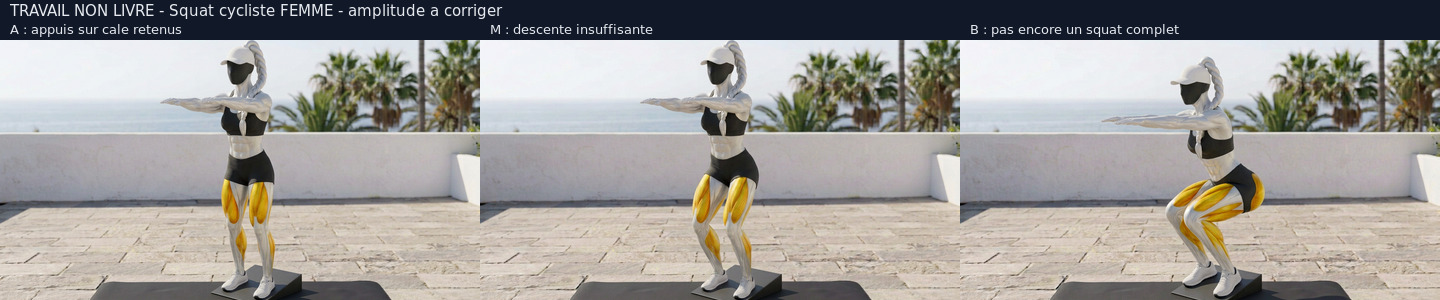
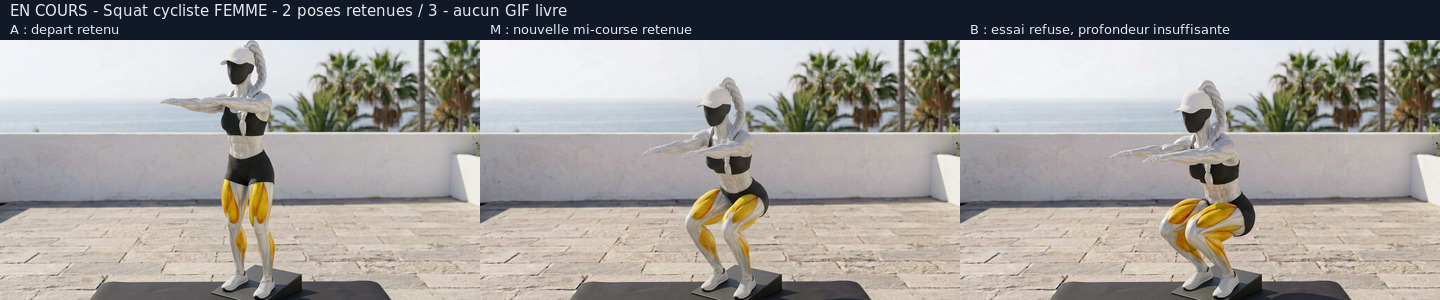
work(animations): retient mi-course cycliste F, B encore non validee
A->M RMSE 0.0944469, controles 1:1 et appuis. 8 appels, aucun nouveau GIF, compteur 74/614. Sources: https://www.youtube.com/watch?v=Hvop-AYzB-I https://simplifaster.com/articles/squat-progression-that-works/ https://www.womenshealthmag.com/uk/fitness/strength-training/a70232060/cyclist-squats-for-stronger-quads/

diff --git a/yanis-fitness-evolution/animations/SUIVI.md b/yanis-fitness-evolution/animations/SUIVI.md
@@ -1699,3 +1699,71 @@ Priorité : corriger M/B du squat cycliste F, en repartant de A retenue et d'une
 validée de hauteur ; conserver la cale, l'orientation et les appuis. Pas de génération depuis
 les essais non conformes. Puis reprendre leg press H/F et back squat F. B-04 attend.
 B-03 reste incomplet. Aucun assemblage final de lot, aucune intégration applicative.
+
+
+## Reprise suivante — 9 octobre 2026 (après `1f099e7`)
+
+**Avancement réel : squat cycliste FEMME 2 poses retenues / 3 (A et nouvelle M).
+B reste non validée. Aucun GIF nouveau : 74/614, 540 restantes, objectif 10 GIFs = 0/10.**
+
+Le user a demandé « Poursuis » et ce que veut dire « travail non livré ». Réponse :
+une planche d'essais consultable n'est pas une animation achevée, contrôlée et comptée.
+Ni les essais ni les animations finales de ce chantier ne sont intégrés au code applicatif
+sans validation d'intégration distincte. Aucun ancien GIF livré ou POC modifié ce tour.
+
+### Vérifications de reprise
+HEAD local et distant de la branche de session = `1f099e7` avant travail ; arbre propre.
+Inventaire vérifié : `squat-cycliste-squat-complet`, matériel `bodyweight`.
+
+### Nouvelles sources effectivement consultées
+- Women's Health, texte technique, cale sous talons, stance étroite et profondeur contrôlée :
+  https://www.womenshealthmag.com/uk/fitness/strength-training/a70232060/cyclist-squats-for-stronger-quads/
+- YouTube, Katie Orlic, « Cyclist Squats » : **description et transcription consultées**,
+  pas une lecture vidéo image par image. Repères : genoux vers l'avant, fesses vers talons,
+  buste relevé, bassin/épaules remontant ensemble.
+  https://www.youtube.com/watch?v=Hvop-AYzB-I
+- SimpliFaster / Alan Bishop : texte et photo « Hands Free Cyclist Squat » examinés.
+  Référence auxiliaire de profondeur : ischios proches des mollets, bassin sous les genoux.
+  Le mannequin FEMME et le mouvement sans charge restent ceux du chantier (pas copie du
+  coach, de la barre ni de la salle).
+  https://simplifaster.com/articles/squat-progression-that-works/
+  Photo : https://simplifaster.com/wp-content/uploads/2025/06/Image_1_HFCS.jpg
+- Recherche GB Performance renouvelée : pas de ressource spécifique exploitable identifiée.
+  Les images de recherche génériques et les photographies externes ne sont pas ajoutées au dépôt.
+
+### 8 appels generate_image, arrêt volontaire avant le plafond de 10
+| # | Guidage | Verdict |
+|---|---|---|
+| 1 | Depuis A, demande de flexion complète | Pas assez bas pour B, mais **retenu comme M** après contrôles : descente intermédiaire distincte et appuis conservés |
+| 2 | A + guide géométrique auxiliaire (dessin de joints) | Refus B : profondeur insuffisante et tresse déplacée |
+| 3 | Guide géométrique en premier + A | Refus B : encore une demi-flexion |
+| 4 | Photo technique SimpliFaster + A validée | Refus B : reste au-dessus de la profondeur demandée |
+| 5 | Zone du personnage masquée sur A + photo technique + crop identité A | Refus B : profondeur insuffisante, marquage/carrure changent |
+| 6 | Photo technique + crop identité A seulement | Refus B : décor, cadrage et cale changent, profondeur non résolue |
+| 7 | Depuis A, consigne de position accroupie près des talons | Refus B : trop peu profond ; conservé uniquement pour illustrer le blocage sur la planche |
+| 8 | Depuis la nouvelle M retenue, continuer la descente | Refus B : changement trop faible, pas une position finale complète |
+
+Les guides dessinés/masques sont auxiliaires, pas des poses validées. Aucune image générée
+refusée n'a été utilisée comme référence pour un autre appel. L'appel 8 part de M, acceptée
+comme position intermédiaire, jamais acceptée comme B. Ne pas répéter aveuglément ces huit
+approches : le générateur reste ancré dans des flexions partielles.
+
+### Contrôles et fichiers conservés
+- A inchangée : `themeB/femme/_sources/B-03F/squat-cycliste-squat-complet-A.png`.
+- **Nouvelle M retenue** : `themeB/femme/_sources/B-03F/squat-cycliste-squat-complet-M.png`.
+  1376×768, MD5 `761b22b25abbed9f78d6302d09a65fc7`, aucun doublon parmi les PNG du chantier.
+- A→M : RMSE normalisée **0,0944469** (> 0,030).
+- B refusée illustrée : `themeB/femme/_travail/B-03F/squat-cycliste-squat-complet-B.png`.
+  M→essai B : RMSE **0,0778191** ; seuil passé mais amplitude visuelle NON conforme.
+- Buste A/M inspecté par crops sans redimensionnement (échelle 1:1) : identité, tenue,
+  carrure et peau cohérentes. Crop des pieds M : semelles en appui sur la cale.
+- Planche mise à jour : `themeB/femme/LOT-B03F-squat-cycliste-PLANCHE-TRAVAIL.jpg`, 1440×300,
+  texte « EN COURS — 2 poses retenues / 3 — aucun GIF livré » ; B explicitement refusée.
+- Ancien essai M dans `_travail` reste un essai OBSOLÈTE ; ne pas le confondre avec M retenue
+  dans `_sources`. Aucun GIF assemblé avec une pose non validée.
+
+### Suite et limite constatée
+Il manque la vraie position basse B du cycliste F ; conserver A/M, ne pas annoncer terminé.
+Une autre méthode de contrôle de pose doit être évaluée avant de relancer les mêmes prompts.
+Leg press H/F et back squat F toujours à produire ; B-04 non commencé.
+Le compteur de chat n'est pas concerné par cet arrêt : aucun drapeau rouge.

diff --git a/CONSIGNE-A-COPIER-COLLER.md b/CONSIGNE-A-COPIER-COLLER.md
@@ -203,3 +203,21 @@ fichiers réellement présents avant de reprendre.
   Recherches GB Performance/YouTube sans tutoriel exploitable ; aucune vidéo visionnée.
 - Branche de reprise actuelle : `arena/7967ce00-jarvis-fitness-yanis-emilie-ap`.
   Les paragraphes antérieurs sont historiques ; ce dernier bilan prévaut pour la reprise.
+
+
+## État courant après la reprise suivant `1f099e7` — 9 octobre 2026
+
+- **Squat cycliste FEMME : A + nouvelle M retenues (2/3), B non validée.**
+- Sources à utiliser : `themeB/femme/_sources/B-03F/squat-cycliste-squat-complet-{A,M}.png`.
+- Nouvelle M : identité et appuis contrôlés, RMSE A→M **0,0944469**, pas de doublon PNG.
+- `_travail/B-03F/` contient seulement des essais refusés ; son M est OBSOLÈTE.
+- Planche `themeB/femme/LOT-B03F-squat-cycliste-PLANCHE-TRAVAIL.jpg` mise à jour :
+  A/M retenues, B explicitement refusée. « Travail non livré » = essai, pas GIF achevé.
+- **8 appels image ce tour**, 1 image retenue comme M, 7 autres refusées comme B.
+  Arrêt volontaire avant 10 : plusieurs guidages échouent sur la profondeur complète.
+- Aucun nouveau GIF : **74/614**, 540 restantes ; objectif 10 nouveaux GIFs : 0/10.
+- Recherches : Women's Health, transcription YouTube Katie Orlic et texte/photo SimpliFaster.
+  Détail des URL, contrôles et méthodes infructueuses dans la dernière section de `SUIVI.md`.
+- Priorité : trouver un guidage de pose B qui descende réellement sous les genoux, sans
+  changer identité/cadrage/appuis. Ne pas répéter à l'identique les essais déjà refusés.
+- Leg press H/F, back squat F et B-04 restent à produire. Aucun POC ou GIF existant remplacé.

diff --git a/PASSATION-ANIMATIONS.md b/PASSATION-ANIMATIONS.md
@@ -123,3 +123,21 @@
   Recherches GB Performance/YouTube sans tutoriel exploitable ; aucune vidéo visionnée.
 - Branche de reprise actuelle : `arena/7967ce00-jarvis-fitness-yanis-emilie-ap`.
   Les paragraphes antérieurs sont historiques ; ce dernier bilan prévaut pour la reprise.
+
+
+## État courant après la reprise suivant `1f099e7` — 9 octobre 2026
+
+- **Squat cycliste FEMME : A + nouvelle M retenues (2/3), B non validée.**
+- Sources à utiliser : `themeB/femme/_sources/B-03F/squat-cycliste-squat-complet-{A,M}.png`.
+- Nouvelle M : identité et appuis contrôlés, RMSE A→M **0,0944469**, pas de doublon PNG.
+- `_travail/B-03F/` contient seulement des essais refusés ; son M est OBSOLÈTE.
+- Planche `themeB/femme/LOT-B03F-squat-cycliste-PLANCHE-TRAVAIL.jpg` mise à jour :
+  A/M retenues, B explicitement refusée. « Travail non livré » = essai, pas GIF achevé.
+- **8 appels image ce tour**, 1 image retenue comme M, 7 autres refusées comme B.
+  Arrêt volontaire avant 10 : plusieurs guidages échouent sur la profondeur complète.
+- Aucun nouveau GIF : **74/614**, 540 restantes ; objectif 10 nouveaux GIFs : 0/10.
+- Recherches : Women's Health, transcription YouTube Katie Orlic et texte/photo SimpliFaster.
+  Détail des URL, contrôles et méthodes infructueuses dans la dernière section de `SUIVI.md`.
+- Priorité : trouver un guidage de pose B qui descende réellement sous les genoux, sans
+  changer identité/cadrage/appuis. Ne pas répéter à l'identique les essais déjà refusés.
+- Leg press H/F, back squat F et B-04 restent à produire. Aucun POC ou GIF existant remplacé.

diff --git a/yanis-fitness-evolution/animations/PLAN-THEMES.md b/yanis-fitness-evolution/animations/PLAN-THEMES.md
@@ -144,7 +144,7 @@ Sous-thème musculation — quadriceps
 | # | Entrée | Identifiant | Groupe | Matériel | Statut |
 | --- | --- | --- | --- | --- | --- |
 | 1 | Back squat | `back-squat` | quadriceps | barre · H + F (2 anim.) | ⚠ POC HOMME existant à recontrôler ; FEMME à produire · ne pas remplacer le POC sans accord explicite |
-| 2 | Squat cycliste (squat complet) | `squat-cycliste-squat-complet` | quadriceps | poids du corps · H + F (2 anim.) | ✅ HOMME livré (`069dd4f`) · FEMME en travail : A sur cale retenue, M/B non validées (amplitude), aucun GIF livré |
+| 2 | Squat cycliste (squat complet) | `squat-cycliste-squat-complet` | quadriceps | poids du corps · H + F (2 anim.) | ✅ HOMME livré (`069dd4f`) · FEMME en travail : A/M sur cale retenues (2/3), B non validée (profondeur), aucun GIF livré |
 | 3 | Leg press | `leg-press` | quadriceps | machine · H + F (2 anim.) | HOMME + FEMME à produire ; recette machine dans `SUIVI.md` |
 
 ### Lot B-04

diff --git a/yanis-fitness-evolution/animations/themeB/femme/_travail/B-03F/README.md b/yanis-fitness-evolution/animations/themeB/femme/_travail/B-03F/README.md
@@ -1,6 +1,9 @@
 # Essais NON VALIDÉS — squat cycliste FEMME
 
-Ces M/B sont conservées uniquement pour diagnostic et planche de travail.
-Amplitude insuffisante : ne pas assembler de GIF final et ne pas utiliser comme références validées.
-La pose A retenue se trouve dans `../../_sources/B-03F/`.
-Voir la dernière section de SUIVI.md pour les sources, contrôles et tentatives.
+- M dans ce dossier : ancien essai OBSOLÈTE, flexion trop faible.
+- B dans ce dossier : nouvel essai refusé, profondeur insuffisante pour squat complet.
+- A et la **nouvelle M retenue** se trouvent dans `../../_sources/B-03F/`.
+
+Ne pas utiliser les images de ce dossier comme références validées ni pour un GIF final.
+La planche de travail montre A et M retenues, puis cet essai B refusé pour diagnostic.
+Voir la dernière section de SUIVI.md pour les recherches, contrôles et 8 appels du tour.
